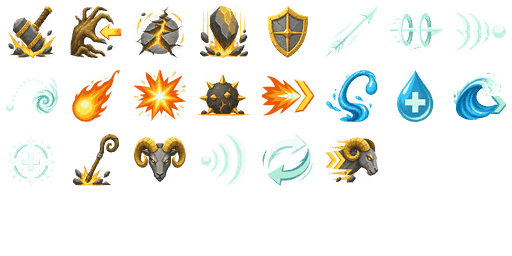
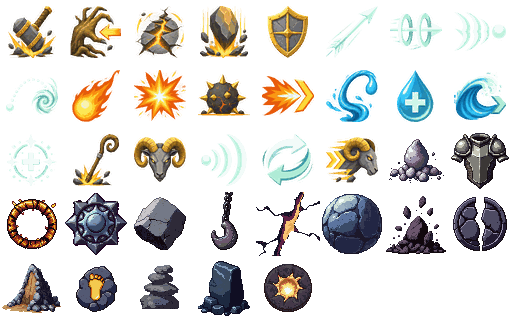
The Warden's twenty — first class of six
Fifteen new spells, learned at levels 3 to 100, taking his book to twenty. That
number is a balance figure, not a target: a career pays 199 spell points and
mastering one spell costs 15, so thirteen can be maxed. At twenty the book
cannot be finished and what you raise IS the build. checkspells has stopped
warning about him and still warns about the other five.

EVERY SPELL USES A VERB THE ENGINE ALREADY HAS — push, pull, shield, field,
trap, tp, apLoss, aoe. There are ninety-four of these to write and a spell that
needs new combat code is a spell that ships broken.

He is the wall that walks and does not grow a ranged game: Gravelshot and
Boulder are his only real reach and both are weak for their cost. What he gains
instead is ways to CLOSE (Grapnel drags four tiles from seven away), to stop
them leaving (Sunder takes an action point), and to be immovable once there.

ALL TWENTY CAST IN A REAL FIGHT, not read: 40 damage from Tectonic, three-tile
pushes from Landslide, the Fissure field, the Cairn trap, Earthen Step moving
him, every shield landing. Structure passing is what the Scion summon did while
being completely broken.

A SHIELD BUG THAT I CREATED AND THEN FIXED. Shields REPLACE rather than stack,
which was harmless while he had exactly one. He has three now, and a plain
assignment meant casting Bulwark on top of Bedrock silently threw away two
thirds of your shield for 2 AP. Nobody does that on purpose, so the game should
[…]

diff --git a/qawmien/classes.js b/qawmien/classes.js
@@ -197,7 +197,66 @@ window.CLASSES = (function () {
           hint: 'The whole turn in one swing.' },
         { id: 'bulwark', name: 'Bulwark', ap: 2, min: 0, max: 0, los: false,
           cd: 3, elem: 'earth', shield: [10, 14],
-          hint: 'Brace. Absorbs damage until your next turn.' }
+          hint: 'Brace. Absorbs damage until your next turn.' },
+        /* ── learned on the way up ─────────────────────────────────
+           Fifteen more, so the book reaches twenty and the spell points
+           become a build rather than a formality (199 points masters
+           thirteen). Every one uses a verb the engine ALREADY has —
+           push, pull, shield, field, trap, tp, apLoss, aoe — because a
+           spell that needs new combat code is a spell that ships broken,
+           and there are ninety-four of these to write.
+
+           The Warden is the wall that walks: he has no ranged game to
+           speak of and should not grow one. Gravelshot and Boulder are
+           deliberately his only real reach, both weak for their cost —
+           what he gets instead is ways to CLOSE (Grapnel), to stop them
+           leaving (Sunder), and to be immovable when he arrives. */
+        { id: 'gravelshot', name: 'Gravelshot', at: 3, ap: 3, min: 2, max: 4,
+          los: true, dmg: [7, 10], cd: 0, elem: 'earth',
+          hint: 'A fistful of scree. Weak — he is not an archer.' },
+        { id: 'shoulder', name: 'Shoulder', at: 6, ap: 2, min: 1, max: 1,
+          los: false, dmg: [9, 12], cd: 1, elem: 'earth', push: 2,
+          hint: 'Puts his weight through them. They give ground.' },
+        { id: 'tremor', name: 'Tremor', at: 9, ap: 3, min: 1, max: 3,
+          los: true, dmg: [9, 13], cd: 3, elem: 'earth', aoe: 1, apLoss: 1,
+          hint: 'The ground kicks. Hard to keep your feet, harder to act.' },
+        { id: 'ironroot', name: 'Ironroot', at: 13, ap: 3, min: 0, max: 0,
+          los: false, cd: 4, elem: 'earth', shield: [18, 24],
+          hint: 'Brace deeper. Costs a turn you wanted to swing with.' },
+        { id: 'boulder', name: 'Boulder', at: 17, ap: 4, min: 3, max: 6,
+          los: true, dmg: [18, 24], cd: 2, elem: 'earth',
+          hint: 'He picks up something enormous and throws it.' },
+        { id: 'grapnel', name: 'Grapnel', at: 22, ap: 2, min: 3, max: 7,
+          los: true, dmg: [5, 8], cd: 3, elem: 'earth', pull: 4,
+          hint: 'Reaches further than Rootgrasp and drags harder.' },
+        { id: 'fissure', name: 'Fissure', at: 27, ap: 4, min: 1, max: 4,
+          los: true, cd: 4, elem: 'earth',
+          field: { dmg: [9, 13], aoe: 1, turns: 3 },
+          hint: 'Splits the ground. It keeps splitting for three turns.' },
+        { id: 'millstone', name: 'Millstone', at: 33, ap: 5, min: 1, max: 1,
+          los: false, dmg: [30, 38], cd: 3, elem: 'earth',
+          hint: 'Both hands, all his weight, once.' },
+        { id: 'rockfall', name: 'Rockfall', at: 39, ap: 5, min: 2, max: 5,
+          los: true, dmg: [16, 22], cd: 4, elem: 'earth', aoe: 2,
+          hint: 'Brings the cliff down on five tiles at once.' },
+        { id: 'sunder', name: 'Sunder', at: 45, ap: 3, min: 1, max: 1,
+          los: false, dmg: [14, 19], cd: 2, elem: 'earth', apLoss: 1,
+          hint: 'Breaks the guard. What they meant to cast, they do not.' },
+        { id: 'landslide', name: 'Landslide', at: 52, ap: 5, min: 1, max: 4,
+          los: true, dmg: [15, 20], cd: 4, elem: 'earth', aoe: 1, push: 3,
+          hint: 'Sweeps the tile and everything beside it three tiles back.' },
+        { id: 'earthenstep', name: 'Earthen Step', at: 60, ap: 2, min: 1, max: 4,
+          los: false, cd: 3, elem: 'earth', tp: true,
+          hint: 'Steps through the stone instead of round it.' },
+        { id: 'cairn', name: 'Cairn', at: 70, ap: 4, min: 1, max: 3,
+          los: false, cd: 4, elem: 'earth', trap: { dmg: [26, 34], aoe: 1 },
+          hint: 'A stack of stones on an empty tile. It falls on whoever comes.' },
+        { id: 'bedrock', name: 'Bedrock', at: 85, ap: 3, min: 0, max: 0,
+          los: false, cd: 5, elem: 'earth', shield: [34, 44],
+          hint: 'The wall stops walking and simply is a wall.' },
+        { id: 'tectonic', name: 'Tectonic', at: 100, ap: 6, min: 1, max: 5,
+          los: true, dmg: [34, 44], cd: 5, elem: 'earth', aoe: 2,
+          hint: 'The island moves. Everything within two tiles goes down.' }
       ],
       look: {
         m: { sheet: 'warden-m',

diff --git a/qawmien/hud.js b/qawmien/hud.js
@@ -238,6 +238,55 @@ window.HUD = (function () {
     shove:     () => { whoosh(1600, 450, 0.18, 0.55, 0, 0.04); },
     thwack:    () => { nz(600, 250, 0.10, 'lowpass', 0.8, 0.5);  /* padded */
                        tone(140, 90, 0.10, 'sine', 0, 0.5); },
+    /* ── THE WARDEN'S FIFTEEN ──────────────────────────────────────
+       All earth, so all built from thud (weight) and low-passed noise
+       (grinding stone). What separates them is WEIGHT and TIME: a
+       thrown handful of scree is one short knock, Tectonic is four
+       overlapping ones with the ground still moving underneath. If two
+       of his spells sound the same the bar stops teaching you anything,
+       so each one differs in how many impacts there are and how far
+       apart they land. */
+    gravelshot:() => { nz(2200, 700, 0.10, 'bandpass', 0.9, 0.30);
+                       thud(190, 0.5, 0.06, 0.02); },        /* scatter, tap */
+    shoulder:  () => { thud(110, 1.1, 0.14);                 /* the weight   */
+                       nz(500, 200, 0.16, 'lowpass', 0.7, 0.30, 0.04); },
+    tremor:    () => { thud(64, 1.2, 0.30);                  /* under you    */
+                       nz(240, 80, 0.34, 'lowpass', 0.6, 0.34, 0.03, 0.12);
+                       thud(96, 0.6, 0.14, 0.16); },
+    ironroot:  () => { tone(120, 180, 0.26, 'sine', 0, 0.42);  /* setting in */
+                       thud(90, 0.7, 0.18, 0.06); },
+    boulder:   () => { whoosh(300, 120, 0.22, 0.4);            /* the throw  */
+                       thud(70, 1.4, 0.26, 0.18); },           /* the arrival*/
+    grapnel:   () => { nz(1400, 500, 0.12, 'bandpass', 0.8, 0.28);
+                       tone(200, 90, 0.22, 'sine', 0.08, 0.40);  /* the drag */
+                       thud(120, 0.6, 0.10, 0.26); },
+    fissure:   () => { nz(300, 60, 0.50, 'lowpass', 0.6, 0.40, 0, 0.16);
+                       tone(90, 55, 0.44, 'sine', 0.05, 0.44);   /* opening  */
+                       crackle(4, 0.22, 0.10); },
+    millstone: () => { whoosh(260, 90, 0.26, 0.34);             /* wind-up   */
+                       thud(58, 1.6, 0.34, 0.22); },            /* one blow  */
+    rockfall:  () => { nz(900, 200, 0.34, 'lowpass', 0.7, 0.44, 0, 0.04);
+                       thud(84, 1.1, 0.20, 0.10);
+                       thud(66, 1.3, 0.26, 0.22); },            /* two falls */
+    sunder:    () => { nz(1800, 400, 0.12, 'bandpass', 1.1, 0.36); /* the crack */
+                       thud(140, 0.9, 0.12, 0.05);
+                       tone(300, 140, 0.14, 'square', 0.08, 0.16); },
+    landslide: () => { nz(600, 120, 0.52, 'lowpass', 0.6, 0.46, 0, 0.14);
+                       thud(74, 1.2, 0.30, 0.14);
+                       thud(60, 0.9, 0.26, 0.30); },            /* it keeps going */
+    earthenstep:()=> { thud(150, 0.8, 0.10);                    /* in        */
+                       nz(700, 1600, 0.14, 'bandpass', 0.8, 0.24, 0.06);
+                       thud(150, 0.8, 0.10, 0.18); },           /* and out   */
+    cairn:     () => { thud(200, 0.5, 0.06);                    /* stone on  */
+                       thud(170, 0.6, 0.06, 0.09);              /* stone on  */
+                       thud(140, 0.7, 0.08, 0.18); },           /* stone     */
+    bedrock:   () => { tone(96, 128, 0.40, 'sine', 0, 0.50);
+                       thud(70, 1.0, 0.30, 0.10);
+                       nz(180, 70, 0.34, 'lowpass', 0.6, 0.24, 0.12); },
+    tectonic:  () => { nz(400, 60, 0.70, 'lowpass', 0.6, 0.52, 0, 0.20);
+                       thud(52, 1.7, 0.40, 0.06);
+                       thud(64, 1.3, 0.34, 0.24);
+                       thud(46, 1.5, 0.44, 0.44); },            /* the island */
     /* ── the bestiary ──
        `butt` had no entry and has been silent since the goat was written: an
        unknown id falls through to the generic soft cast, so a 74hp wall of a

diff --git a/qawmien/hud-types.js b/qawmien/hud-types.js
@@ -213,7 +213,15 @@ const HUDT = (() => {
        art exists: a drain reads as a bolt, a drag as the other drag, bleeding
        ground as the other ground effect, a summon as the other summon, a blink
        as the other blink. Replace these the moment the icons are drawn. */
-    siphon: 9, leash: 1, hemorrhage: 11, scion: 18, bloodstep: 8, nip: 21 };
+    siphon: 9, leash: 1, hemorrhage: 11, scion: 18, bloodstep: 8, nip: 21,
+    /* ── THE WARDEN'S FIFTEEN, painted ──────────────────────────────
+       The sheet grew from 4 rows to 5 to hold them. It grows DOWNWARD and
+       never sideways: a cell is (id % ICON_COLS, id / ICON_COLS), so
+       adding a column would move every icon already placed and silently
+       repaint the whole bar. Adding rows moves nothing. */
+    gravelshot: 22, shoulder: 23, tremor: 24, ironroot: 25, boulder: 26,
+    grapnel: 27, fissure: 28, millstone: 29, rockfall: 30, sunder: 31,
+    landslide: 32, earthenstep: 33, cairn: 34, bedrock: 35, tectonic: 36 };
 
   function spellIcon(id, size, tint) {
     const at = ICON_AT[id];

diff --git a/qawmien/tactics.js b/qawmien/tactics.js
@@ -1254,7 +1254,14 @@ function cast(u, sp, c, r){
   if (sp.trap){ setTrap(u, sp, c, r); return; }
   if (sp.field){ setField(u, sp, c, r); return; }
   if (sp.shield){                       /* Bulwark: scales off Strength     */
-    u.shieldHp = scaleRoll(u, sp, rng(sp.shield[0], sp.shield[1]));
+    /* KEEP THE BETTER BRACE. A shield REPLACES rather than stacks, which was
+       harmless while the Warden had exactly one. He has three now — Bulwark,
+       Ironroot, Bedrock — and a plain assignment means casting the cheap one
+       on top of Bedrock silently throws away two thirds of your shield for
+       2 AP. Nobody would do that on purpose, so the game should not let it
+       happen by accident; re-casting still refreshes an equal or better one. */
+    const roll = scaleRoll(u, sp, rng(sp.shield[0], sp.shield[1]));
+    u.shieldHp = Math.max(u.shieldHp | 0, roll);
     floatText(u, 'shield ' + u.shieldHp, '#7FD4C1');
     return;
   }

diff --git a/sw.js b/sw.js
@@ -2,7 +2,7 @@
    Deliberately narrow: it never touches cross-origin requests and never
    touches range requests, because a greedy SW broke a previous project.
    Bump CACHE on every deploy. */
-const CACHE = 'karti-v408';
+const CACHE = 'karti-v409';
 /* ── THE SHELL, NOT THE GAME ─────────────────────────────────────────────────
    This list used to be 205 entries / ~24 MB — every game module and every
    per-game portrait — so a first install (and EVERY version bump) re-fetched

diff --git a/index.html b/index.html
@@ -2449,7 +2449,7 @@ window.KARTI_THEME = (function(){
    over a MessageChannel, and the answer comes from the script iOS actually
    activated — not from the server, not from a constant. Keep BUILD in step
    with CACHE in sw.js (bump both on every deploy). */
-var KARTI_BUILD = 408;
+var KARTI_BUILD = 409;
 window.KARTI_BUILD = KARTI_BUILD;
 window.swVersion = function(){
   return new Promise(function(resolve){
